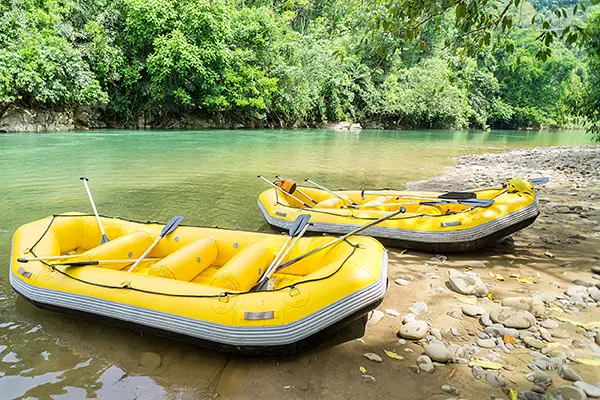
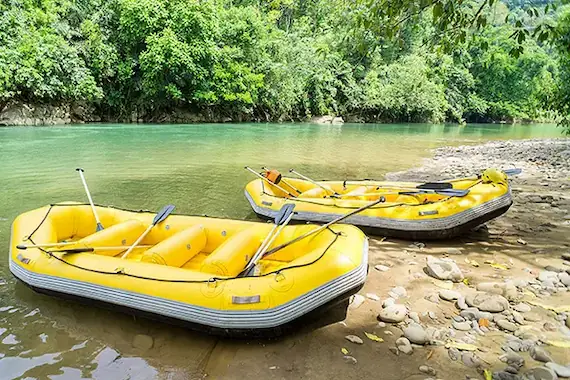
optimised about

diff --git a/wwr/about.html b/wwr/about.html
@@ -47,7 +47,7 @@
             <h2>Adventure Awaits You!</h2>
             <div class="adventure-grid">
                 <figure>
-                    <img src="images/rafting3.jpg" alt="Rafting Adventure 1">
+                    <img src="images/rafting3.webp" alt="Rafting Adventure 1">
                     <figcaption>Adventure 1</figcaption>
                 </figure>
                 <figure>
